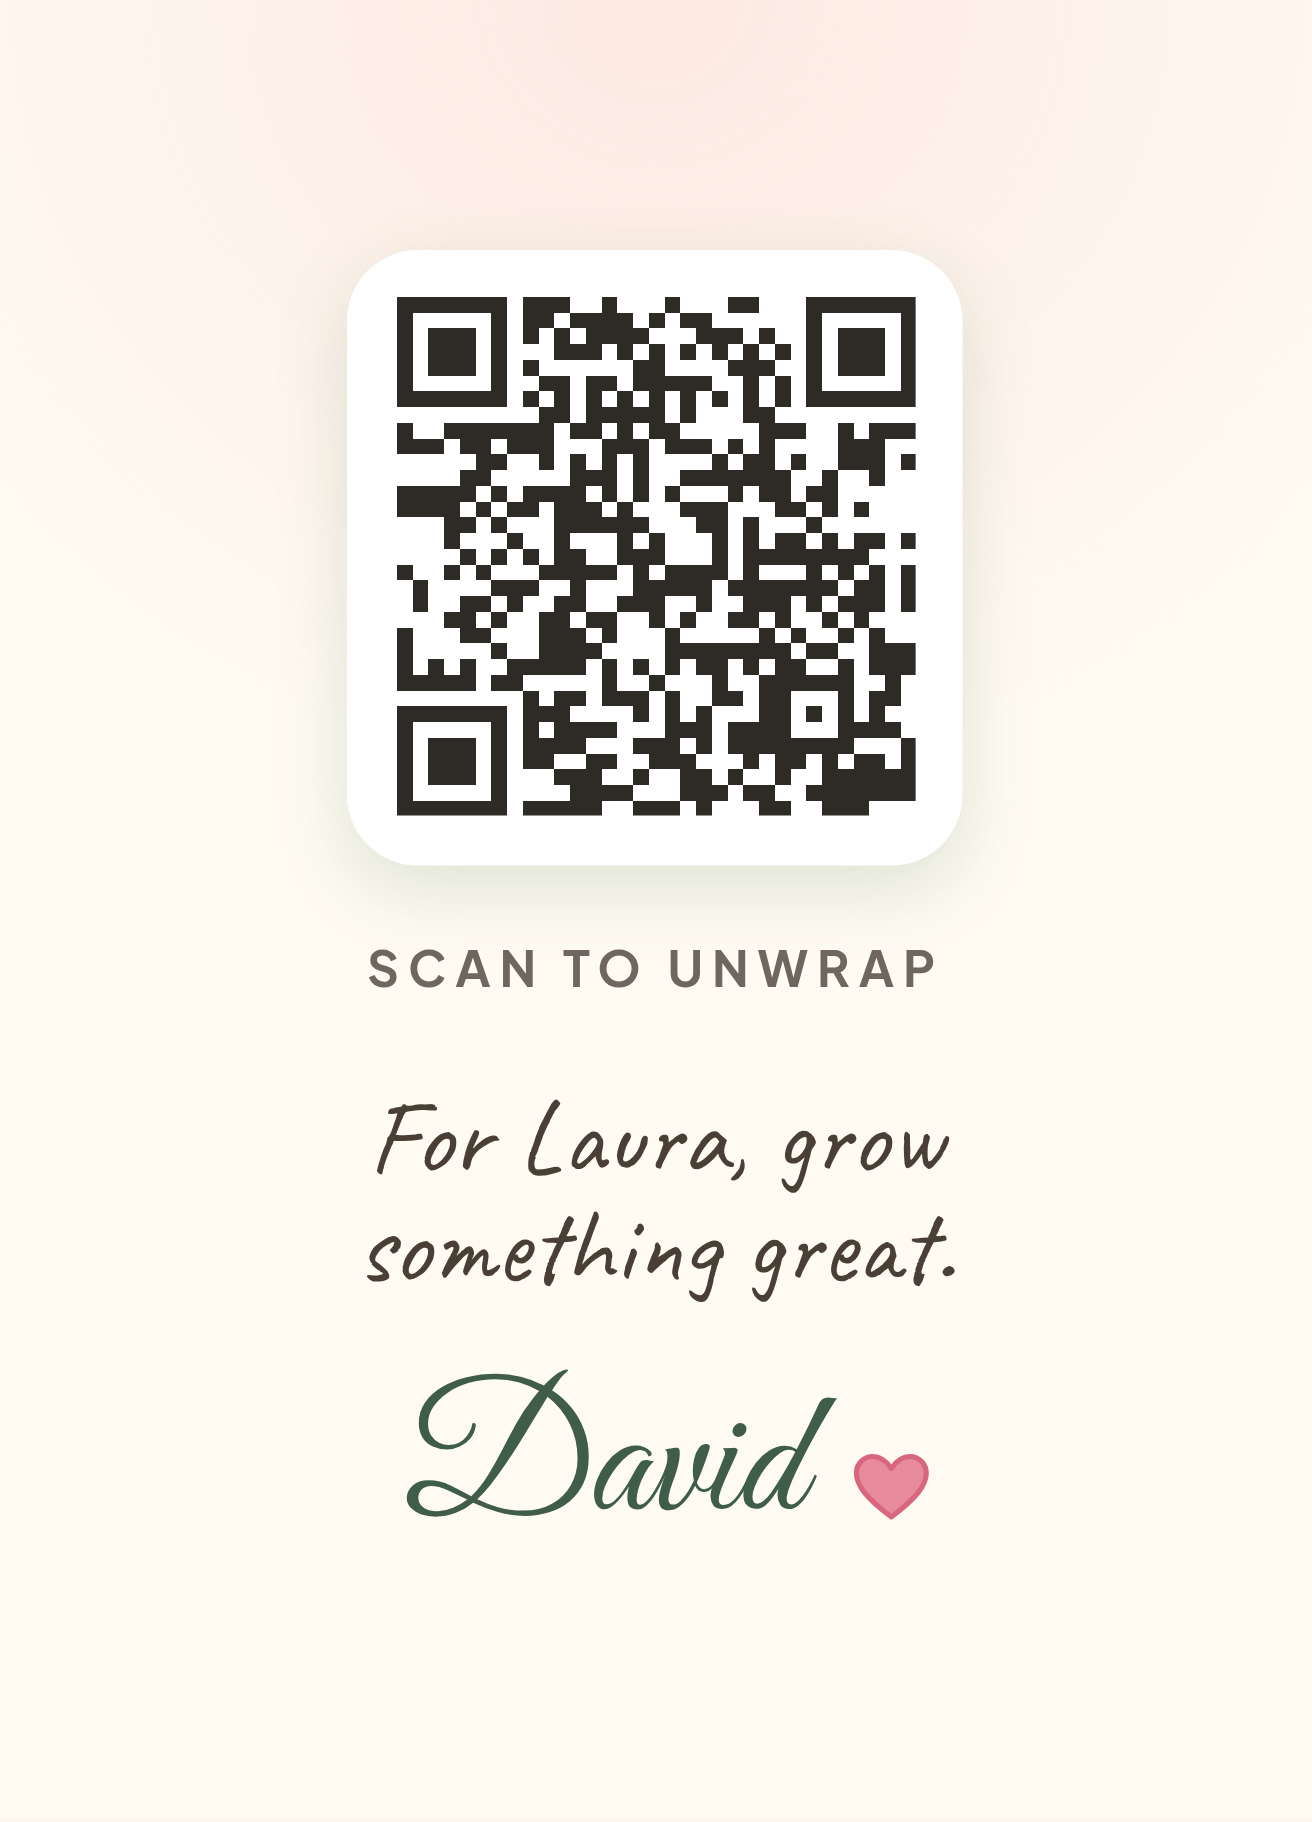
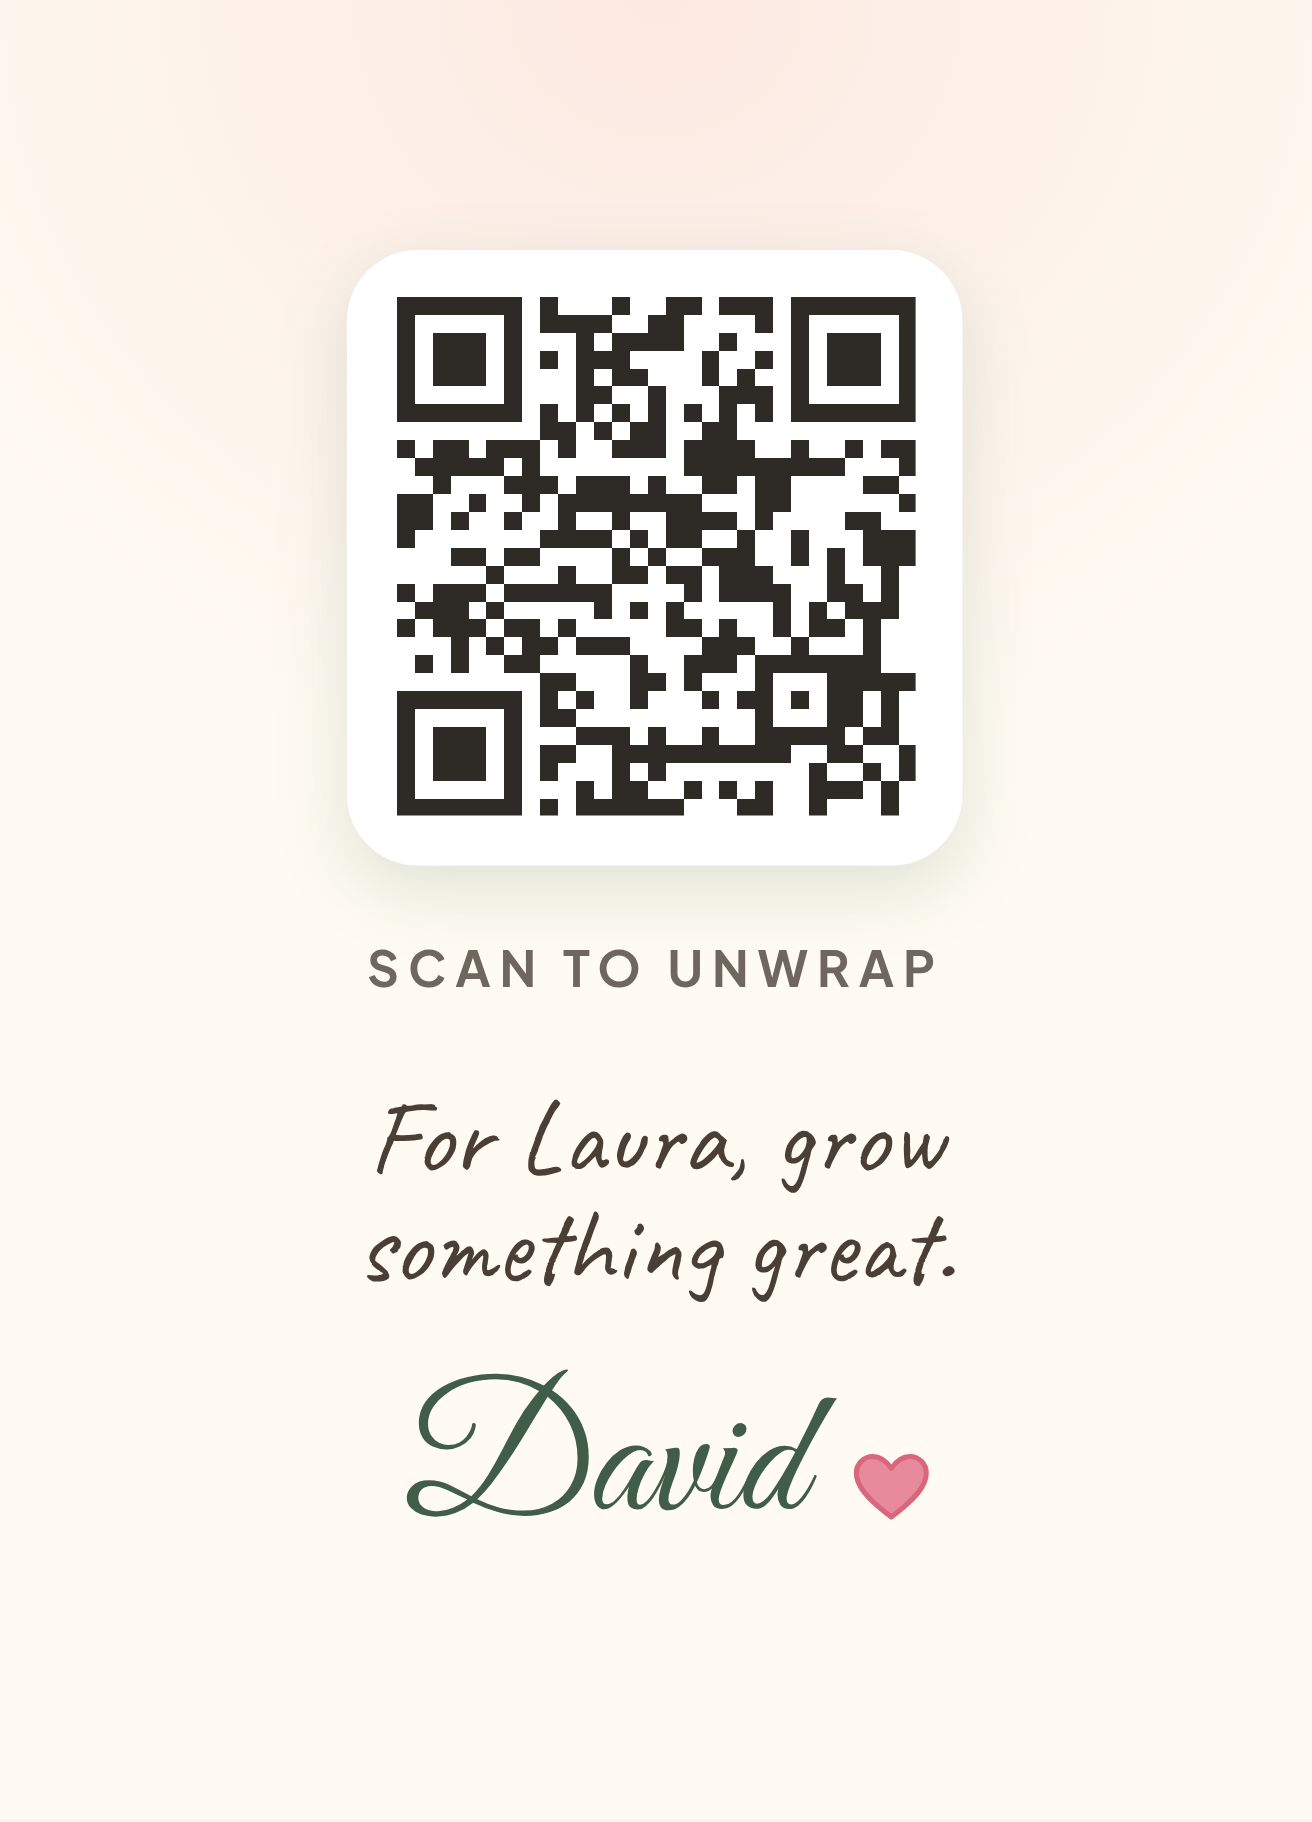
Gift card and docs: use auragarden.vercel.app
Production is live and aliased to https://auragarden.vercel.app; the gift
card QR now decodes to https://auragarden.vercel.app/laura.

Claude-Session: https://claude.ai/code/session_018WUXDJttdu1Vr7kqXTWuRP

Changed region(s): [[0.2812, 0.1537, 0.7188, 0.461]]

diff --git a/scripts/make-gift-card.tsx b/scripts/make-gift-card.tsx
@@ -16,7 +16,7 @@ import QRCode from "qrcode";
 import { Oscar } from "../components/oscar/Oscar";
 import { GIFTS } from "../config/gifts";
 
-const SITE = (process.env.SITE_URL ?? "https://auragarden-nexeire.vercel.app").replace(/\/$/, "");
+const SITE = (process.env.SITE_URL ?? "https://auragarden.vercel.app").replace(/\/$/, "");
 const BASE = process.env.BASE ?? "http://localhost:3100";
 const gift = GIFTS.laura;
 // A6 is 105 × 148 mm; with 3 mm bleed each side, 111 × 154 mm. At 300 dpi: 1311 × 1819 px.

diff --git a/DEPLOY.md b/DEPLOY.md
@@ -5,7 +5,7 @@ It's already set up and live. This page says what's where and how to look after 
 ## What's live
 
 - **Code:** `main` on github.com/dhackettLMK/AuraGarden_. Every push to `main` deploys automatically.
-- **Website:** Vercel project `auragarden` (team Nexeire), at **https://auragarden-nexeire.vercel.app**. Laura's gift is `/laura`.
+- **Website:** Vercel project `auragarden` (team Nexeire), at **https://auragarden.vercel.app**. Laura's gift is `/laura`.
 - **Database:** Supabase project `auragarden` (West EU, Ireland), set up from `supabase/setup.sql` and `supabase/migrations/`. Don't change it by hand: the app only calls its `ag_*` functions.
 - **Environment variables** (Vercel → Settings → Environment Variables): `SUPABASE_URL`, `SUPABASE_PUBLISHABLE_KEY` and `CRON_SECRET`.
 
@@ -17,7 +17,7 @@ The functions are pinned to Dublin (`dub1`). If Vercel ever complains about the 
 
 Use a **private/incognito tab** so Laura's garden starts completely fresh on her own phone later.
 
-1. Open `https://auragarden-nexeire.vercel.app/laura`. Tap the box, watch it unwrap, tap **Start my garden**.
+1. Open `https://auragarden.vercel.app/laura`. Tap the box, watch it unwrap, tap **Start my garden**.
 2. Go through the welcome cards and tick the first task. You should hear the ding and see **+25**.
 3. On Settings → **My garden link**, the cloud icon at the top should say **Synced**.
 4. On a laptop, open Settings → **Open on another device** on the phone and scan the QR code with the laptop's browser (or copy the link across). Tick something on one device and watch it appear on the other within a few seconds.
@@ -31,7 +31,7 @@ Vercel → your project → **Settings** → **Domains** → **Add**. Vercel sho
 
 ## 3. Print the gift card with the real link
 
-The card's QR code points at `https://auragarden-nexeire.vercel.app/laura` (the Vercel project's production address). If you add a custom domain, ask Claude Code (or run it yourself):
+The card's QR code points at `https://auragarden.vercel.app/laura`. If you add a custom domain, ask Claude Code (or run it yourself):
 
 ```
 npm run build && npx next start -p 3100 &

diff --git a/HANDOVER.md b/HANDOVER.md
@@ -6,7 +6,7 @@ Hi David. AuraGarden is built, tested and ready to deploy. Here's everything you
 
 Live. Every push to `main` deploys automatically. Laura's link is:
 
-**`https://auragarden-nexeire.vercel.app/laura`**
+**`https://auragarden.vercel.app/laura`**
 
 and the custom domain too, if you add one. The code is on the branch `claude/wizardly-gates-wo8a0v`; `DEPLOY.md` step 0 merges it into `main`.
 
@@ -38,7 +38,7 @@ She pastes the link and her events appear (repeating ones included), refreshed e
 **You:**
 
 - **Test it yourself first** in a private tab (`DEPLOY.md` step 1), then delete your test garden from Settings.
-- **Print the gift card.** `gift/auragarden-card.pdf` and `.png` (A6, 3 mm bleed) have the QR pointing at `https://auragarden-nexeire.vercel.app/laura`. If you add a custom domain, re-run `SITE_URL=<url> npx tsx scripts/make-gift-card.tsx` (or ask Claude Code to).
+- **Print the gift card.** `gift/auragarden-card.pdf` and `.png` (A6, 3 mm bleed) have the QR pointing at `https://auragarden.vercel.app/laura`. If you add a custom domain, re-run `SITE_URL=<url> npx tsx scripts/make-gift-card.tsx` (or ask Claude Code to).
 - **Swap in the cleaner Swap 'N' Serve Cup logo** you pasted in chat: upload it over `assets/logos/swapnserve-cup-logo.png` (same name). Pasted images can't be saved from chat, so the app currently uses the distressed version already in the repo.
 - **Check the calendar how-tos once** on a real account. The brief asked me to verify them against Google, Apple and Microsoft's help pages, but those sites aren't reachable from the build environment, so they're written carefully from knowledge.
 

diff --git a/PROGRESS.md b/PROGRESS.md
@@ -96,7 +96,7 @@ A new session can resume from this file alone: read `CLAUDE.md`, `AURAGARDEN_BRI
 
 ## Placeholders
 
-- **Gift card QR** points at `https://auragarden-nexeire.vercel.app/laura`, the Vercel project's production address. If a custom domain is added, re-run `SITE_URL=… npx tsx scripts/make-gift-card.tsx`.
+- **Gift card QR** points at `https://auragarden.vercel.app/laura`, the Vercel project's production address. If a custom domain is added, re-run `SITE_URL=… npx tsx scripts/make-gift-card.tsx`.
 - **Vercel env vars (checked):** `SUPABASE_URL`, `SUPABASE_PUBLISHABLE_KEY` and `CRON_SECRET` are set, which is everything the app needs. `CRON_SECRET` is stored as a readable variable; re-adding it as Sensitive is tidier.
 - **Gift note** is unset (`config/gifts.ts`).
 

diff --git a/README.md b/README.md
@@ -50,7 +50,7 @@ To run the sync end-to-end tests locally, start any Postgres, create the roles `
 
 ## Deploys
 
-Vercel project `auragarden` builds from `main` on every push (production: https://auragarden-nexeire.vercel.app). Functions run in Dublin (`dub1`), and `vercel.json` schedules the daily keep-alive. See `DEPLOY.md` for the click-by-click setup.
+Vercel project `auragarden` builds from `main` on every push (production: https://auragarden.vercel.app). Functions run in Dublin (`dub1`), and `vercel.json` schedules the daily keep-alive. See `DEPLOY.md` for the click-by-click setup.
 
 ## How it's built
 
